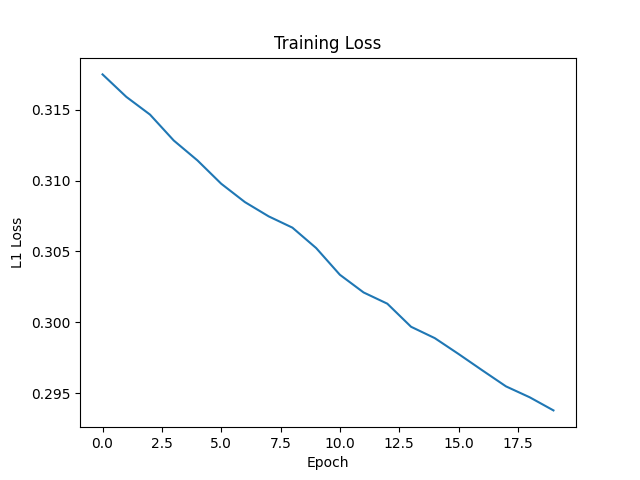
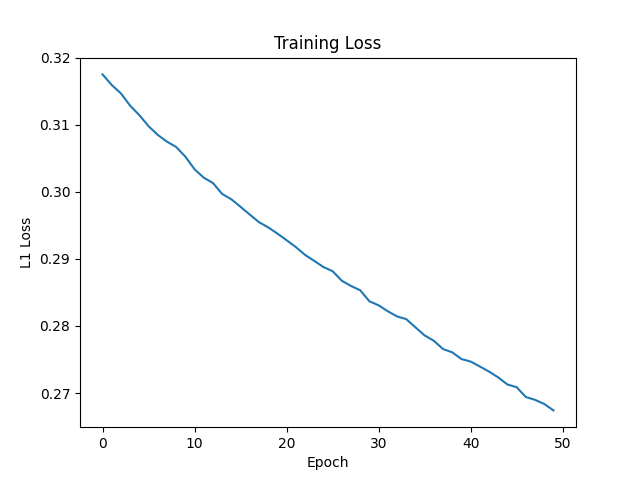
files from 50 iteration run on training colab

diff --git a/colmap_test/testcolmap.py b/colmap_test/testcolmap.py
@@ -181,7 +181,7 @@ cameras_data = load_cameras_from_colmap(recon)
 device = 'cuda' if torch.cuda.is_available() else 'cpu'
 preview_pytorch_render(gaussians, cameras_data, cam_index=0, device=device)
 
-model, losses = train(gaussians, cameras_data, n_epochs=30, device=device)
+model, losses = train(gaussians, cameras_data,  n_epochs=50, device=device)
 
 # # plot loss curve
 plt.figure()
@@ -194,9 +194,9 @@ plt.close()
 
 # render final result
 with torch.no_grad():
-    final = render_gaussians_torch(model, cameras_data[0]['camera'])
+    final = render_gaussians_torch(model, cameras_data[1]['camera'])
     final_np = final.cpu().numpy()
-    target = cameras_data[0]['target_image']
+    target = cameras_data[1]['target_image']
     
     plt.figure()
     fig, axes = plt.subplots(1, 3, figsize=(15, 5))
@@ -208,5 +208,39 @@ with torch.no_grad():
     axes[2].set_title("Difference")
     for ax in axes: ax.axis('off')
     plt.tight_layout()
-    plt.savefig("final_render.png")
-    plt.show()
+    plt.savefig("final_render1.png")
+    plt.close()
+
+    final = render_gaussians_torch(model, cameras_data[2]['camera'])
+    final_np = final.cpu().numpy()
+    target = cameras_data[2]['target_image']
+    
+    plt.figure()
+    fig, axes = plt.subplots(1, 3, figsize=(15, 5))
+    axes[0].imshow(np.clip(target, 0, 1))
+    axes[0].set_title("Target")
+    axes[1].imshow(np.clip(final_np, 0, 1))
+    axes[1].set_title("Final Render")
+    axes[2].imshow(np.clip(np.abs(target - final_np), 0, 1))
+    axes[2].set_title("Difference")
+    for ax in axes: ax.axis('off')
+    plt.tight_layout()
+    plt.savefig("final_render2.png")
+    plt.close()
+
+    final = render_gaussians_torch(model, cameras_data[3]['camera'])
+    final_np = final.cpu().numpy()
+    target = cameras_data[3]['target_image']
+    
+    plt.figure()
+    fig, axes = plt.subplots(1, 3, figsize=(15, 5))
+    axes[0].imshow(np.clip(target, 0, 1))
+    axes[0].set_title("Target")
+    axes[1].imshow(np.clip(final_np, 0, 1))
+    axes[1].set_title("Final Render")
+    axes[2].imshow(np.clip(np.abs(target - final_np), 0, 1))
+    axes[2].set_title("Difference")
+    for ax in axes: ax.axis('off')
+    plt.tight_layout()
+    plt.savefig("final_render3.png")
+    plt.close()
